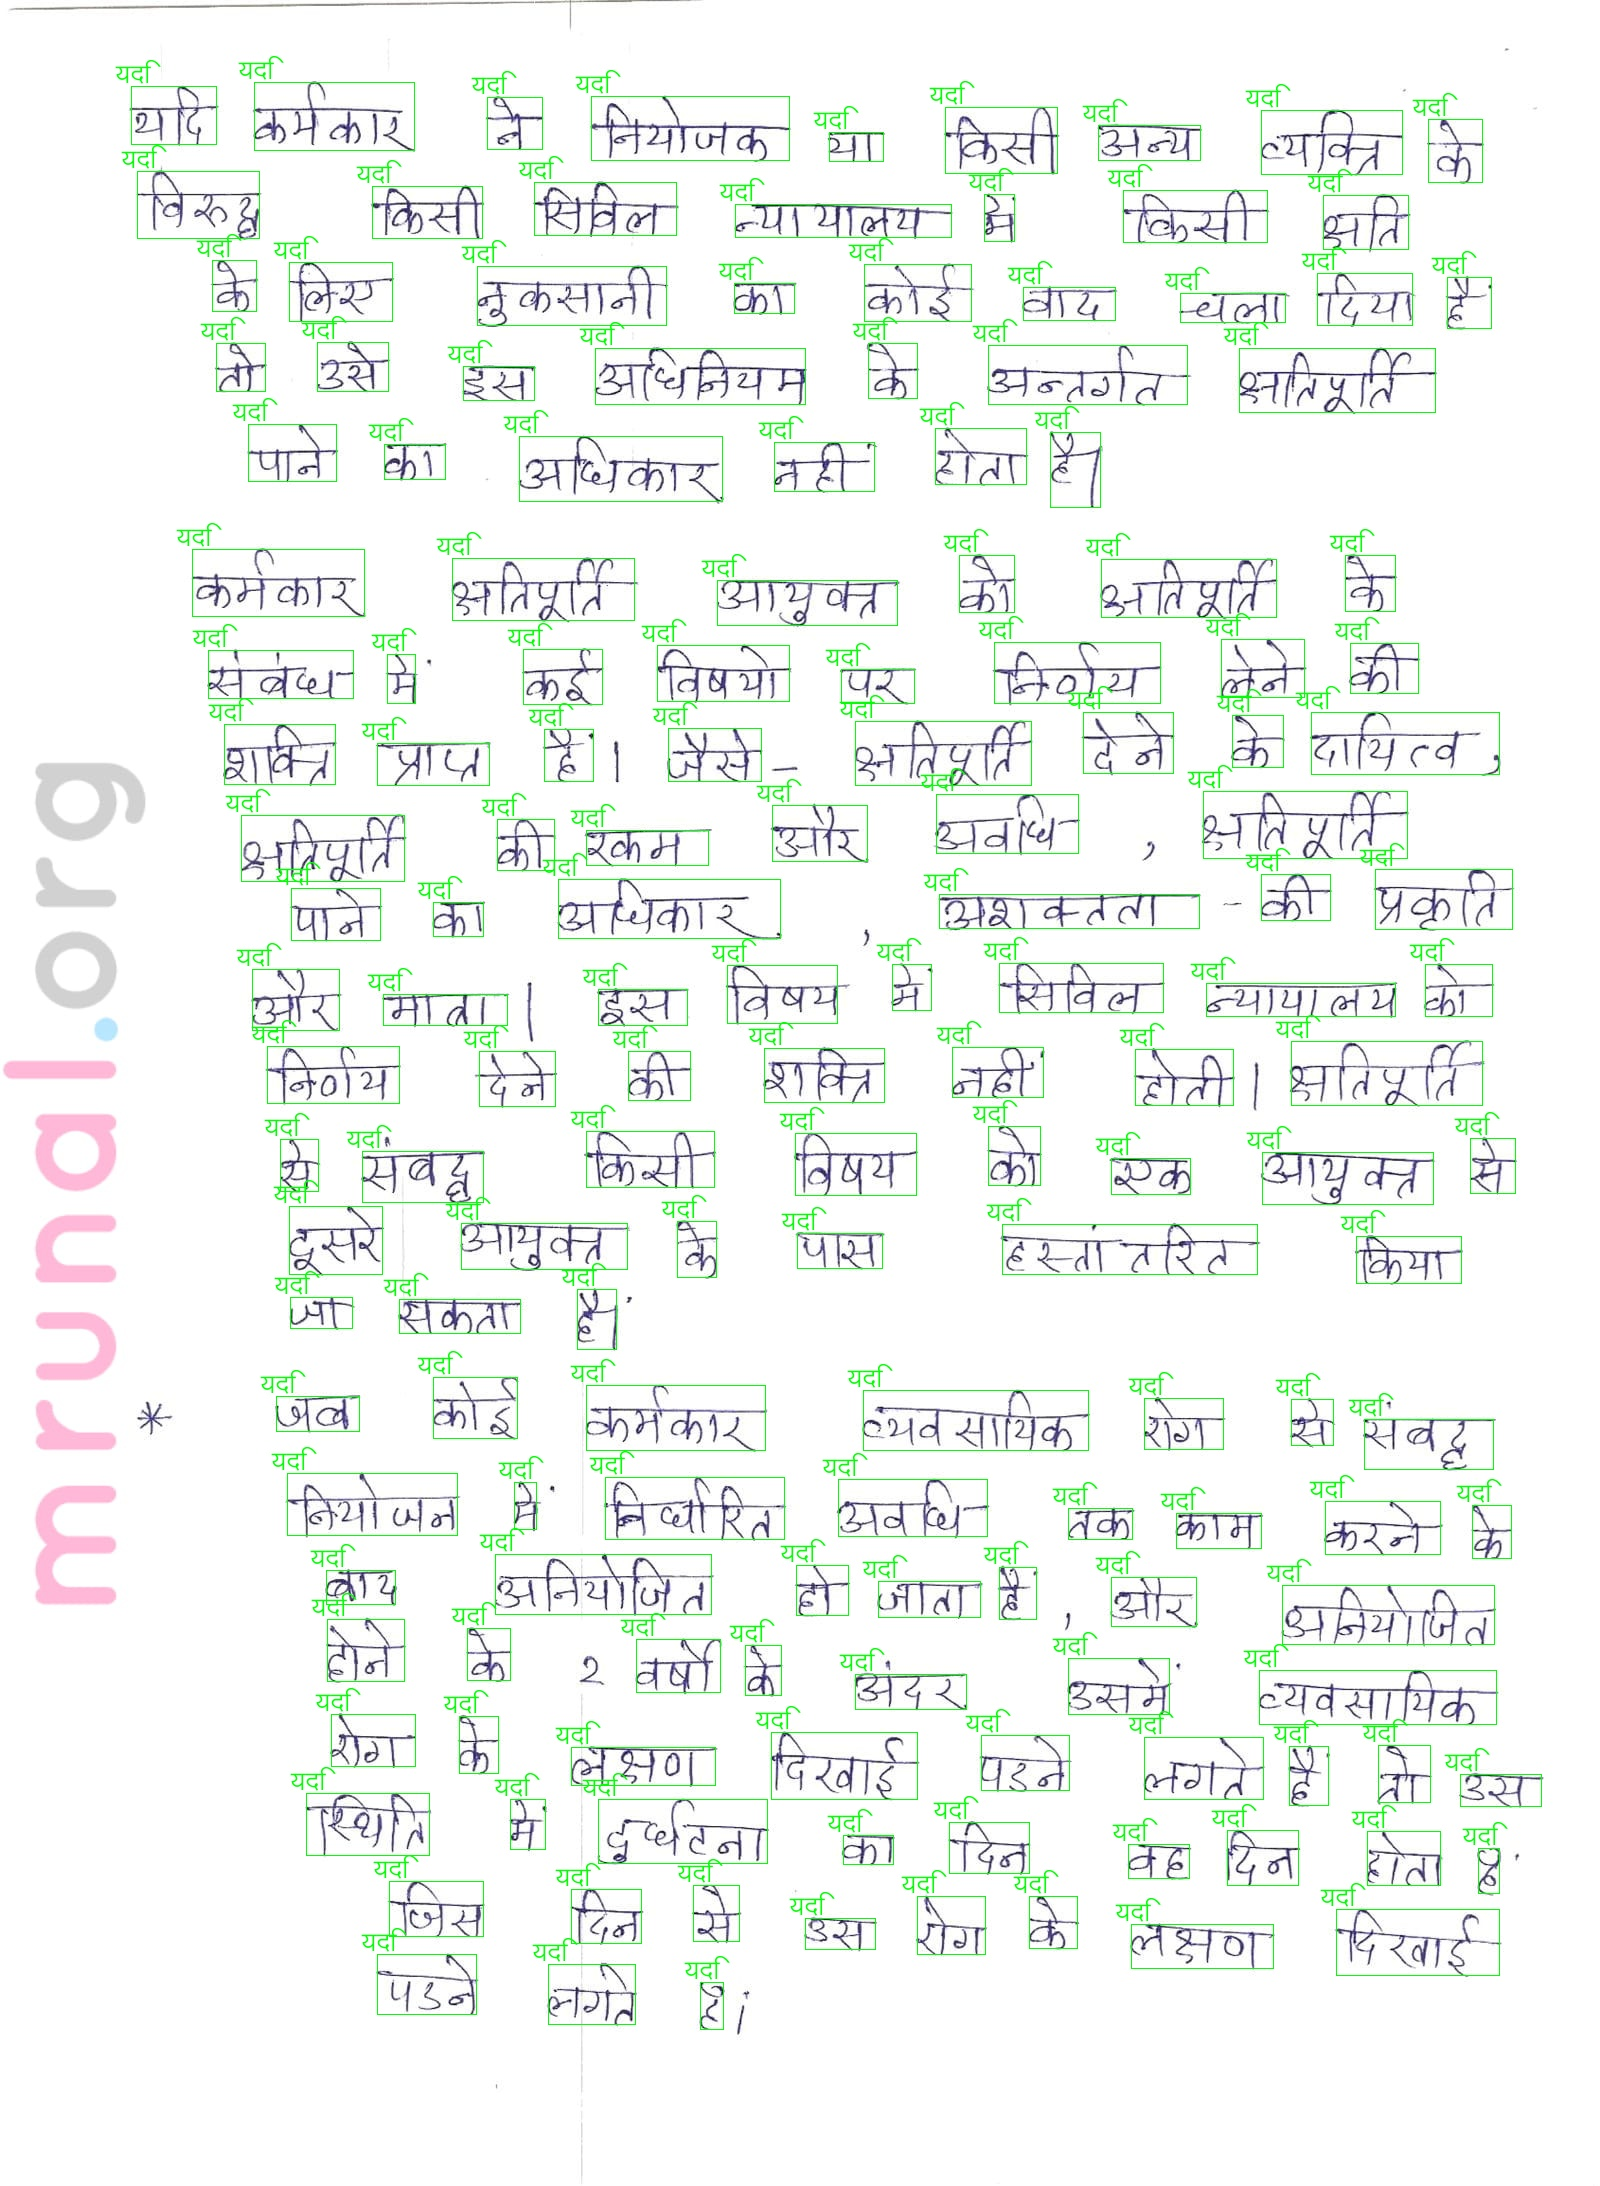
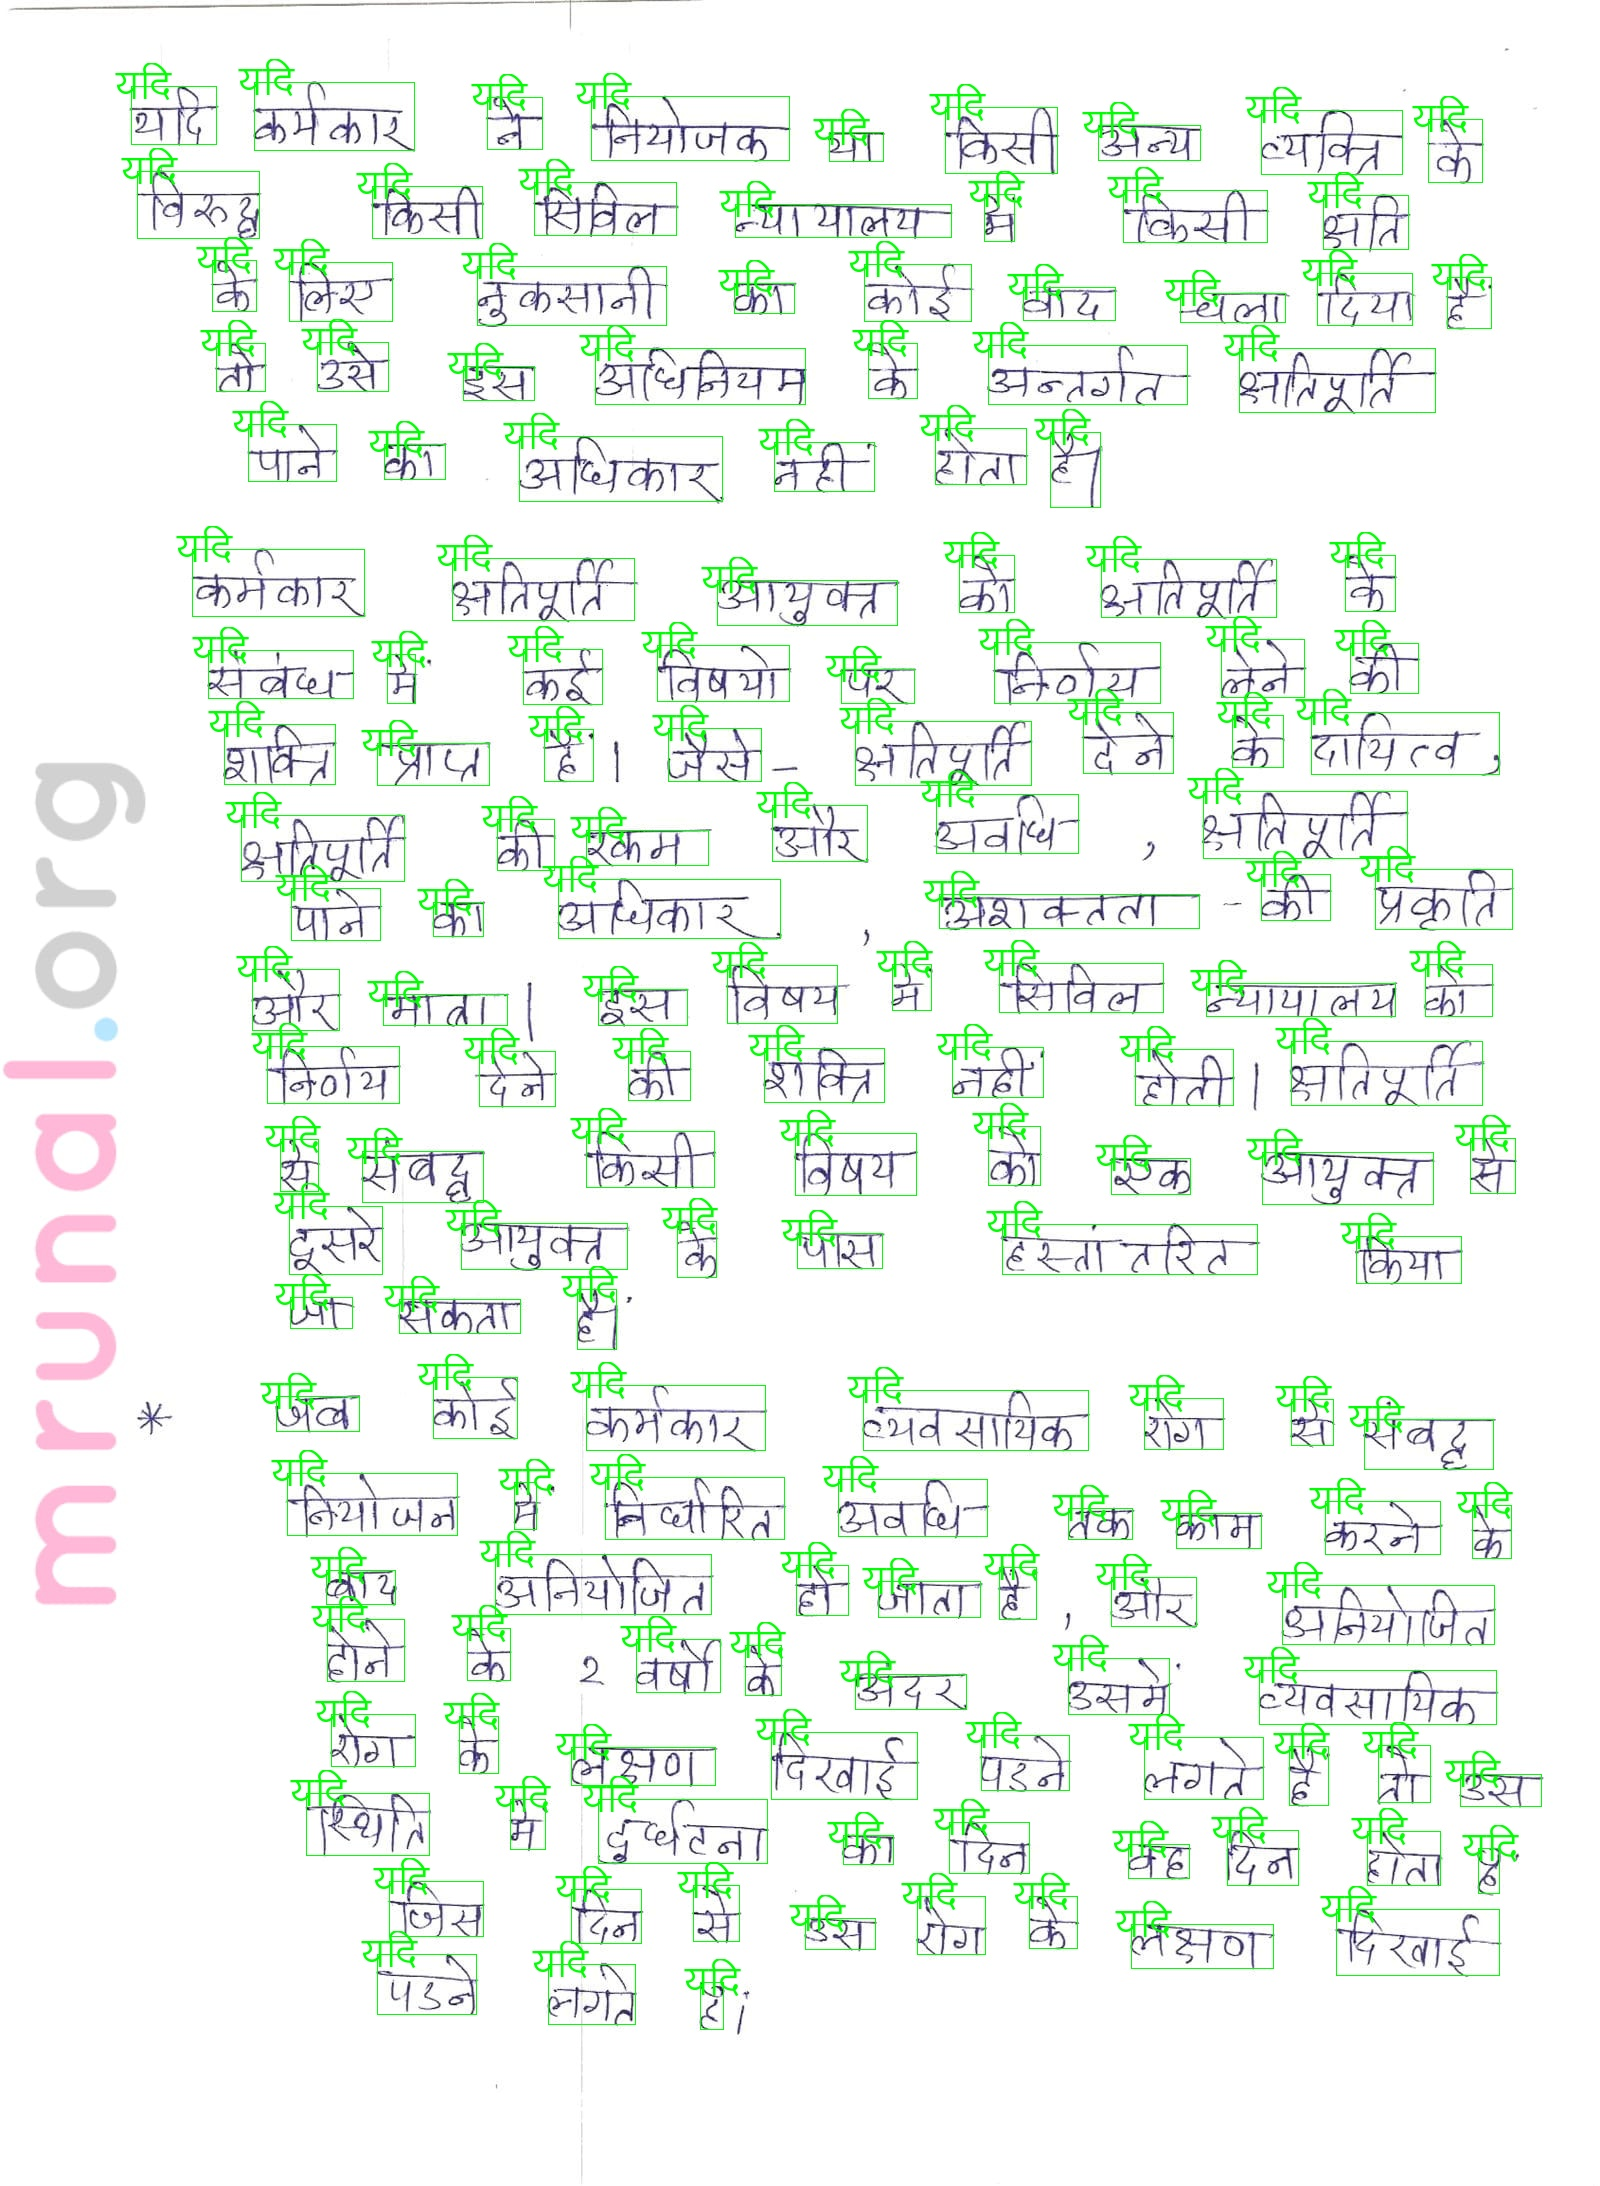
Gen outpt

diff --git a/word_recognition/draw_text.py b/word_recognition/draw_text.py
@@ -12,7 +12,7 @@ def annotate(number):
 	ret,bi = cv2.threshold(bi,127,255,cv2.THRESH_BINARY)
 
 	words = []
-	with open('output1.txt', encoding='utf-8') as f:
+	with open('output{}.txt'.format(number), encoding='utf-8') as f:
 		for line in f:
 			line = line.strip()
 			words.append(line)
@@ -33,7 +33,7 @@ def annotate(number):
 			pos[path] = [int(line[i]) for i in range(2,6)]
 
 	fontpath = "font.ttf" 
-	font = ImageFont.truetype(fontpath, 25)
+	font = ImageFont.truetype(fontpath, 40)
 
 	with open('seg_data/ann{}.txt'.format(number), 'r') as f:
 		for i, line in enumerate(f):
@@ -42,6 +42,7 @@ def annotate(number):
 
 			pt1_y, pt2_y, pt1_x, pt2_x= list(map(int, pos[line]))
 			# word = 'यदि'
+			print(i)
 			word = words[i]
 			# pdb.set_trace()
 			roi = (bi[pt1_y: pt2_y, pt1_x:pt2_x]!=255).nonzero()
@@ -63,11 +64,11 @@ def annotate(number):
 	cv2.imwrite('final_out{}.jpg'.format(number), img)
 
 
-annotate(1)
-annotate(2)
-annotate(3)
-annotate(4)
-annotate(5)
+#annotate(1)
+#annotate(2)
+#annotate(3)
+#annotate(4)
+#annotate(5)
 annotate(6)
 annotate(7)
 
